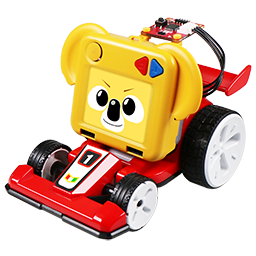
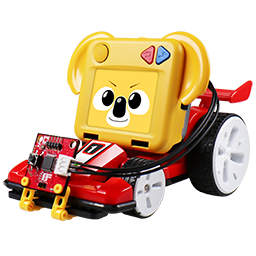
코알라봇 대표이미지 수정 / 코알라봇 오타 수정

diff --git a/src/playground/blocks/hardwareLite/block_robotis_koalabot_lite.js b/src/playground/blocks/hardwareLite/block_robotis_koalabot_lite.js
@@ -2230,7 +2230,7 @@ let camera_id_for_use = 0;
                             //DEFAULT_DELAY
                         );
                     },
-                    syntax: { js: [], py: ['Koalabot.dxl_each_control(%1)'] },
+                    syntax: { js: [], py: ['Koalabot.go_distance(%1)'] },
                 },
 
                 robotis_koalabot_lite_turn_angle: {
@@ -2308,7 +2308,7 @@ let camera_id_for_use = 0;
                             //DEFAULT_DELAY
                         );
                     },
-                    syntax: { js: [], py: ['Koalabot.dxl_each_control(%1)'] },
+                    syntax: { js: [], py: ['Koalabot.turn_angle(%1)'] },
                 },
                 robotis_koalabot_lite_follow_line: {
                     color: EntryStatic.colorSet.block.default.HARDWARE,
